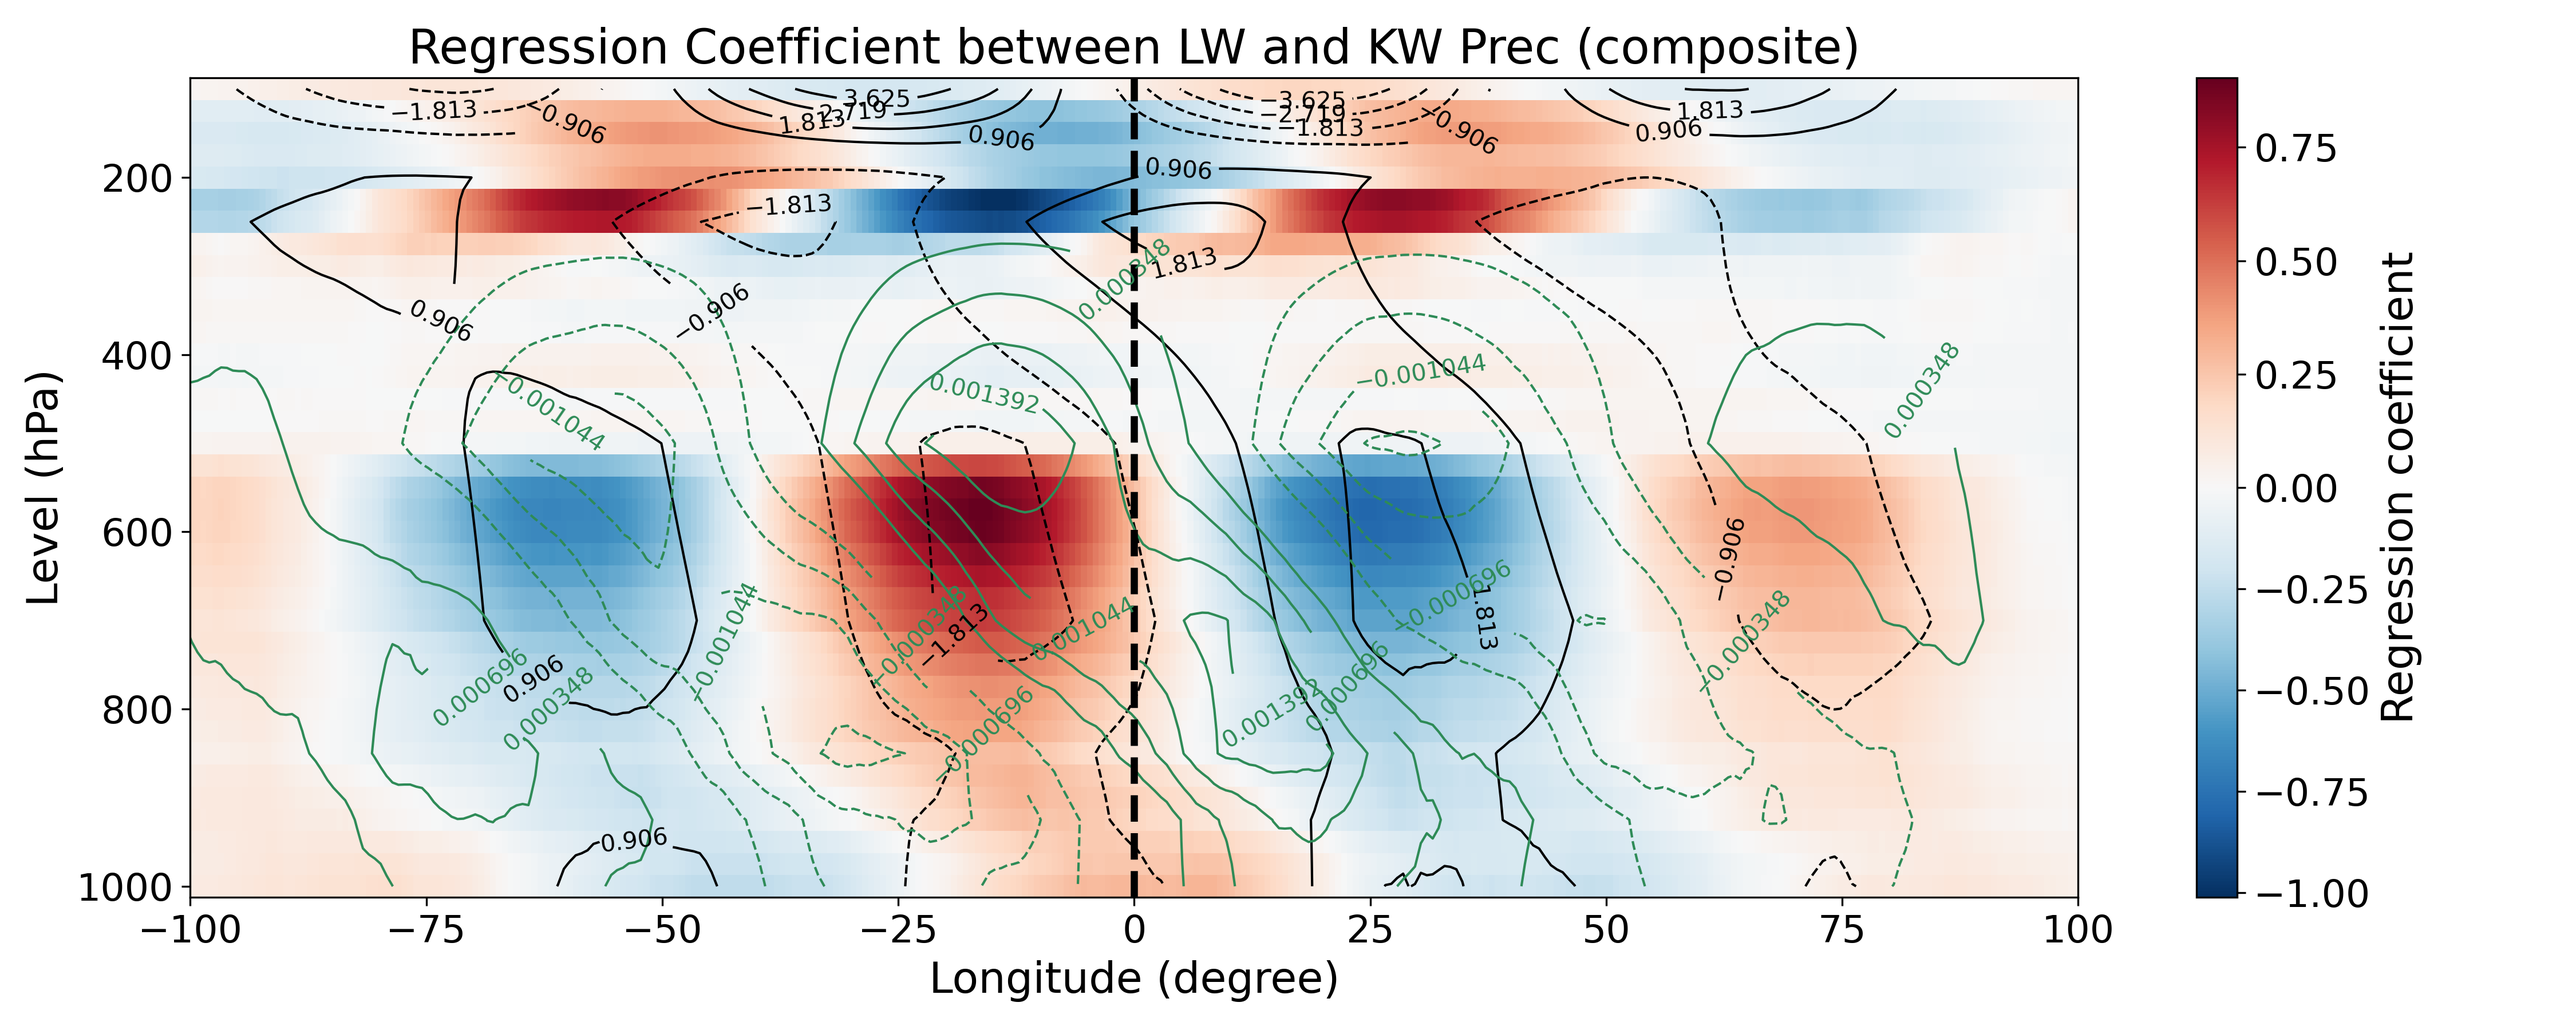
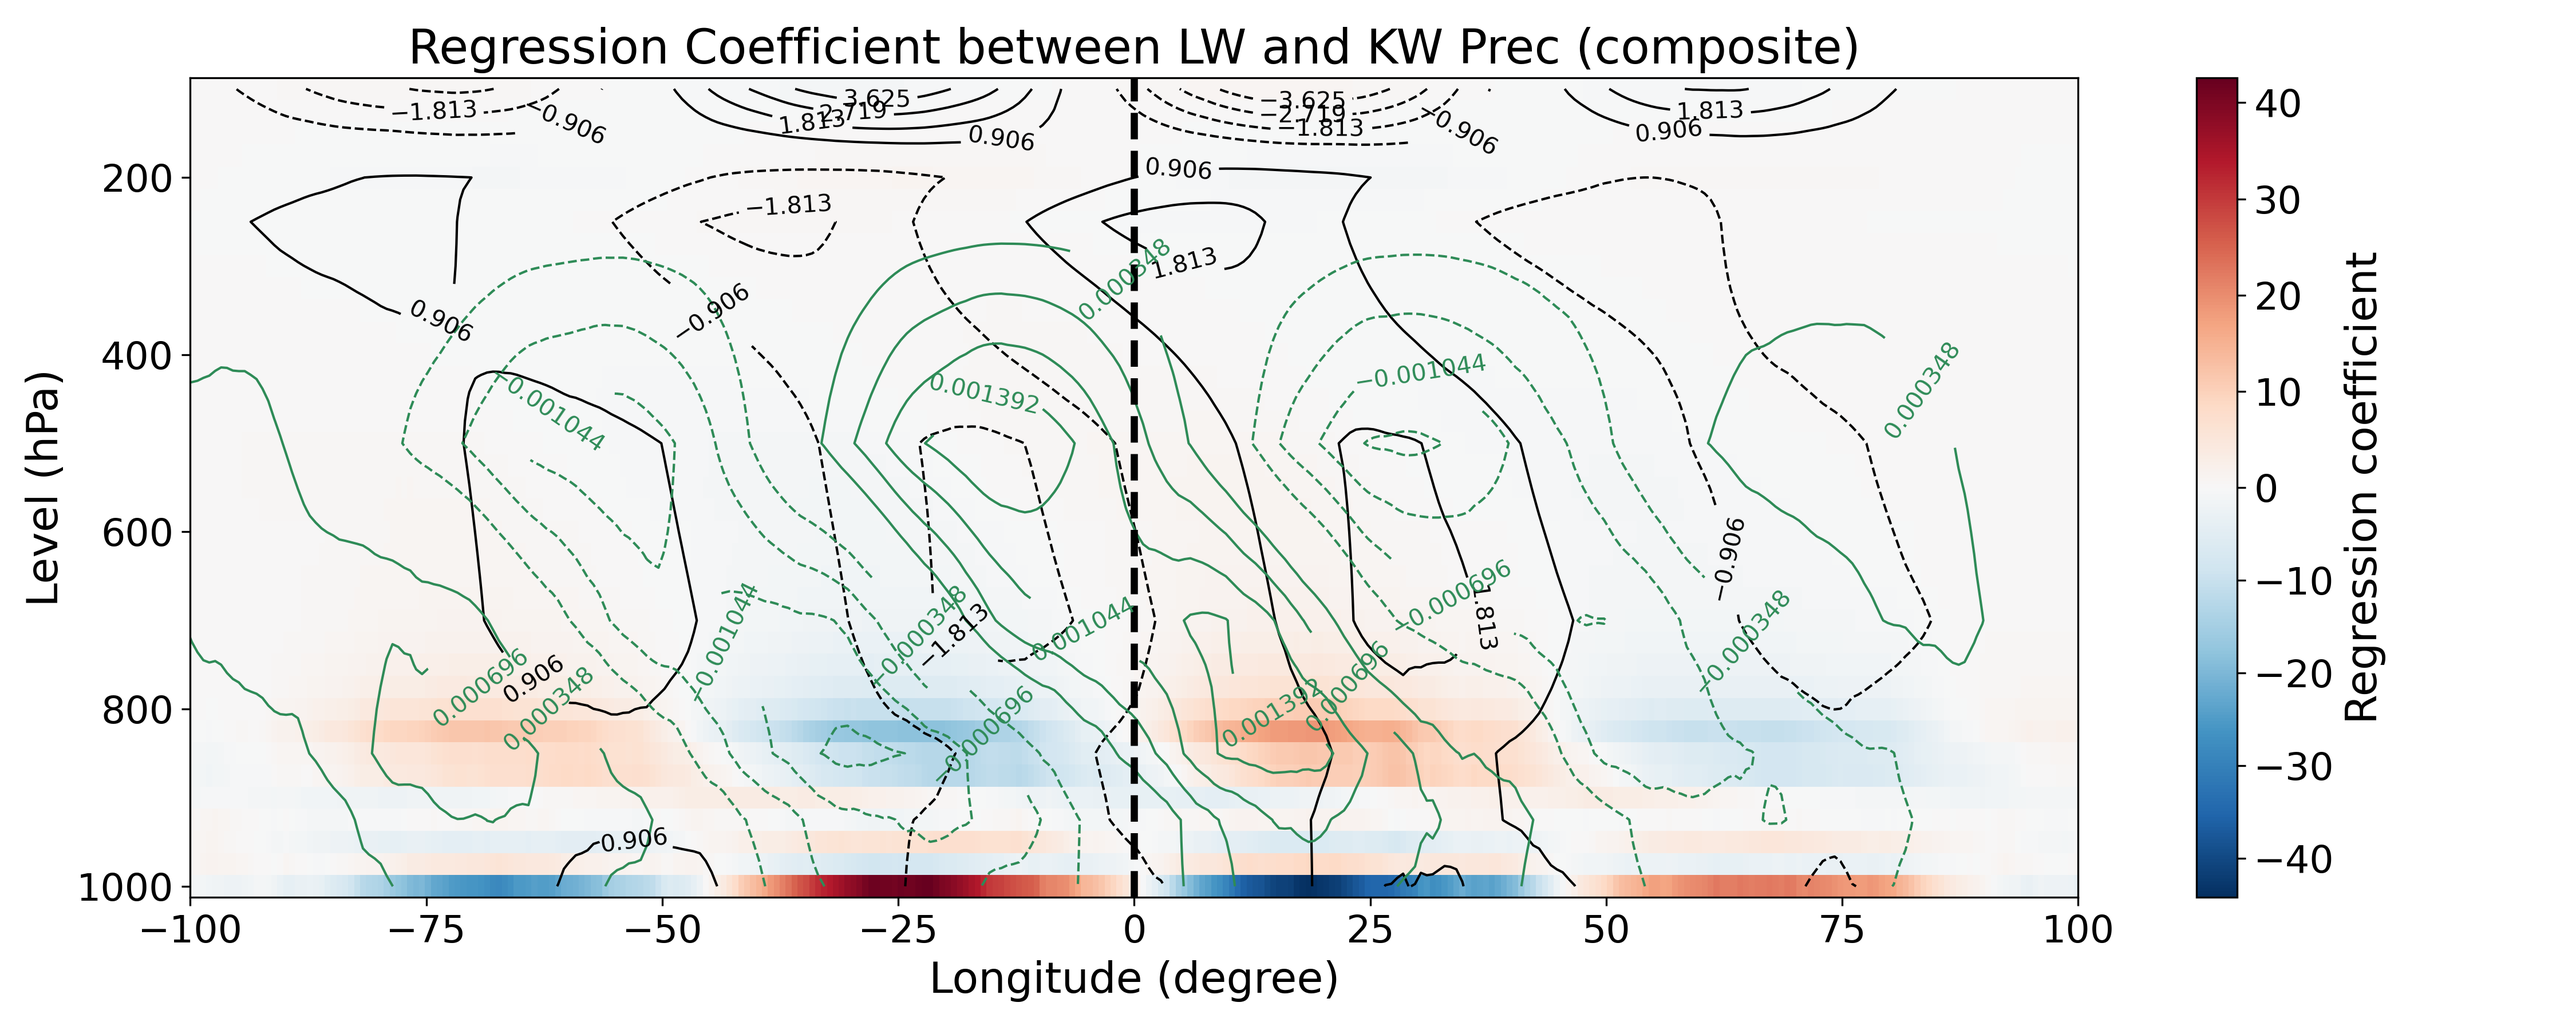
Composite of moisture-associated radiative heating

diff --git a/Code/ERA5/moisture_rad.py b/Code/ERA5/moisture_rad.py
@@ -22,10 +22,10 @@ from matplotlib import pyplot as plt
 LRF = {}
 
 with h5py.File("/work/b11209013/2025_Research/MSI/Rad_Stuff/LRF.h5", "r") as f:
-    LRF["t_lw"] = np.array(f.get("t_lw"))[::-1, ::-1]
-    LRF["t_sw"] = np.array(f.get("t_sw"))[::-1, ::-1]
-    LRF["q_lw"] = np.array(f.get("q_lw"))[::-1, ::-1]
-    LRF["q_sw"] = np.array(f.get("q_sw"))[::-1, ::-1]
+    LRF["t_lw"] = np.array(f.get("t_lw"))
+    LRF["t_sw"] = np.array(f.get("t_sw"))
+    LRF["q_lw"] = np.array(f.get("q_lw"))
+    LRF["q_sw"] = np.array(f.get("q_sw"))
 
 # Load ERA5 regression profile
 PATH_REG = "/home/b11209013/2025_Research/Obs/Files/ERA5/reg/"
